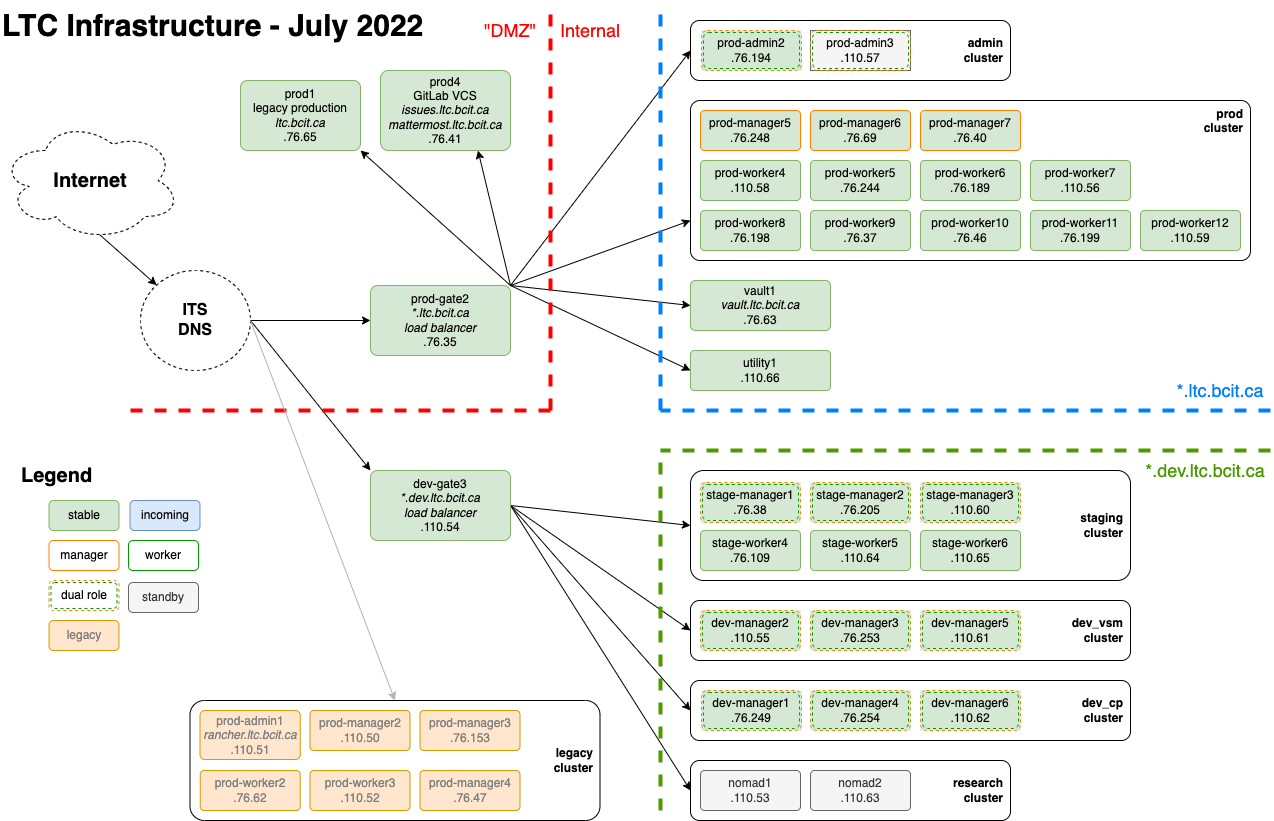
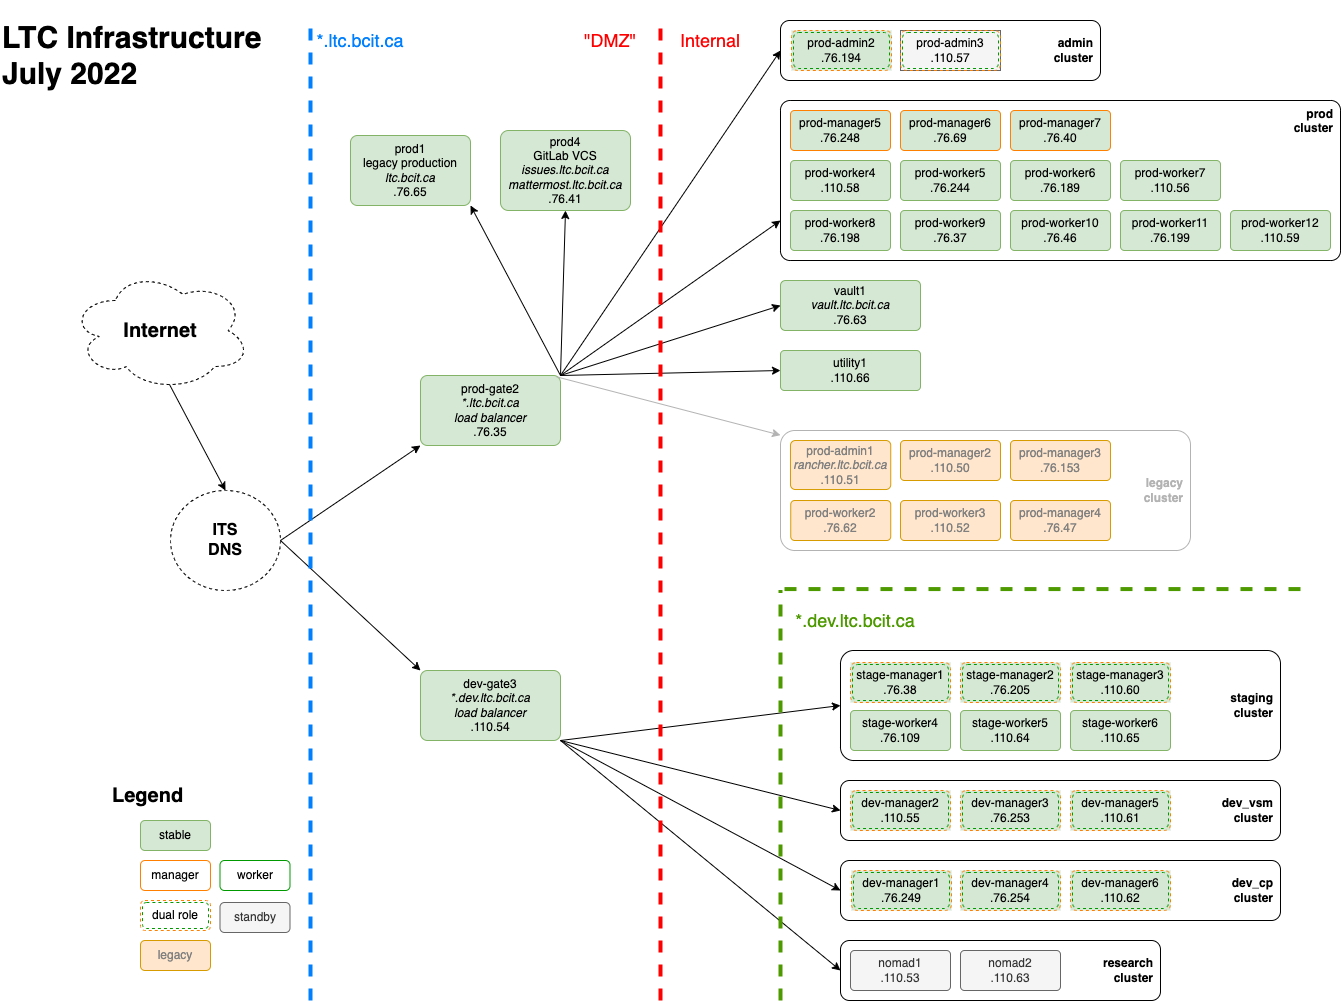
fix: updates simple, detailed infrastructure diagrams

diff --git a/docs/dev-workflow/deployment-packages.md b/docs/dev-workflow/deployment-packages.md
@@ -70,7 +70,7 @@ When the [Default LTC GitLab CI/CD Pipeline](https://issues.ltc.bcit.ca/-/snippe
 
 ## First steps *kustomizing* the Deployment Package
 
-The `generic-dev` deployment package contains example bases that might help give you an idea about how different workloads can be structured. The package also has an example `dev` overlay that demonstrates what a kustomized overlay looks like.
+The `generic-dev` deployment package contains example bases that might help give you an idea about how different workloads can be structured. The package also has example `dev`, `staging`, and `production` overlays that can be used as starting points for the kustomization.
 
 === "nginx-unprivileged"
 
@@ -136,4 +136,23 @@ After you have a working `dev` overlay, most of the "heavy lifting" is done. Mak
 
 The biggest differences between `staging`/`production` overlays and the `dev` overlay has to do with routing and security. If your application uses any kind of secret, you should be storing and retrieving these from Vault.
 
-In terms of routing, most of it is taken care-of automatically, but if you need a unique URL, you may need to setup an additional **ingress** rule.
+!!! tip "Retrieving secrets from Vault"
+
+    Use the following annotations in your `staging`/`production` overlay `deployment.yaml` file to configure automatic secret retrieval:
+
+    ```
+        spec:
+        ...
+          template:
+            metadata:
+              annotations:
+                vault.hashicorp.com/agent-inject: 'true'
+                vault.hashicorp.com/role: '{projectName}-production-kubeauthbot'
+                vault.hashicorp.com/agent-inject-secret-config: 'web-apps/data/{projectName}'
+                vault.hashicorp.com/agent-inject-template-config: |
+                  {{ with secret "web-apps/data/{projectName}" -}}
+                  {secretKey}="{{ .Data.data.{secretKey} }}"
+                  {{- end }}
+    ```
+
+In terms of routing, most of it is taken care-of automatically, but if you need a unique URL, you may need to setup an additional **public-endpoint** (ingress) rule.

diff --git a/docs/infrastructure/configuration-projects.md b/docs/infrastructure/configuration-projects.md
@@ -14,9 +14,9 @@ When a new VM is provisioned by ITS, the Ansible scripts in this project are use
 
 This repo contains the authoritative source of LTC server information.
 
-## [HAProxy](https://issues.ltc.bcit.ca/ltc-infrastructure/haproxy)
+## [Traefik-docker](https://issues.ltc.bcit.ca/ltc-infrastructure/traefik-docker)
 
-HAProxy is the load balancer entrypoint for the LTC's web apps and services. It sits in the DMZ and forwards traffic to apps that run on Kubernetes clusters.
+Traefik is the load balancer entrypoint for the LTC's web apps and services. It sits in the DMZ and forwards traffic to apps that run on Kubernetes clusters. Traefik runs inside a docker container to enable version-controlled releases and roll-backs.
 
 ## [Vault](https://issues.ltc.bcit.ca/ltc-infrastructure/vault-configuration)
 

diff --git a/docs/dev-workflow/getting-started-dev.md b/docs/dev-workflow/getting-started-dev.md
@@ -55,7 +55,7 @@ Docker can be used in a few different ways. A nice way to try out an app is to r
 
     1. Start Docker
     1. Open a terminal and run `docker container run -p 8080:80 nginx`
-    1. Open a browser and navigate to `localhost:8080`
+    1. Open a browser and navigate to `http://localhost:8080`
 
 #### Dockerfiles
 
